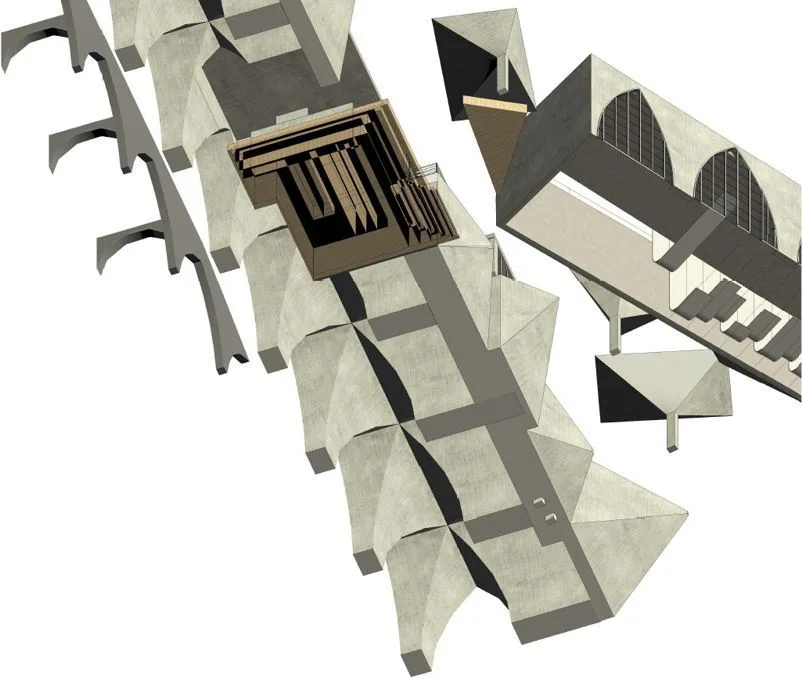
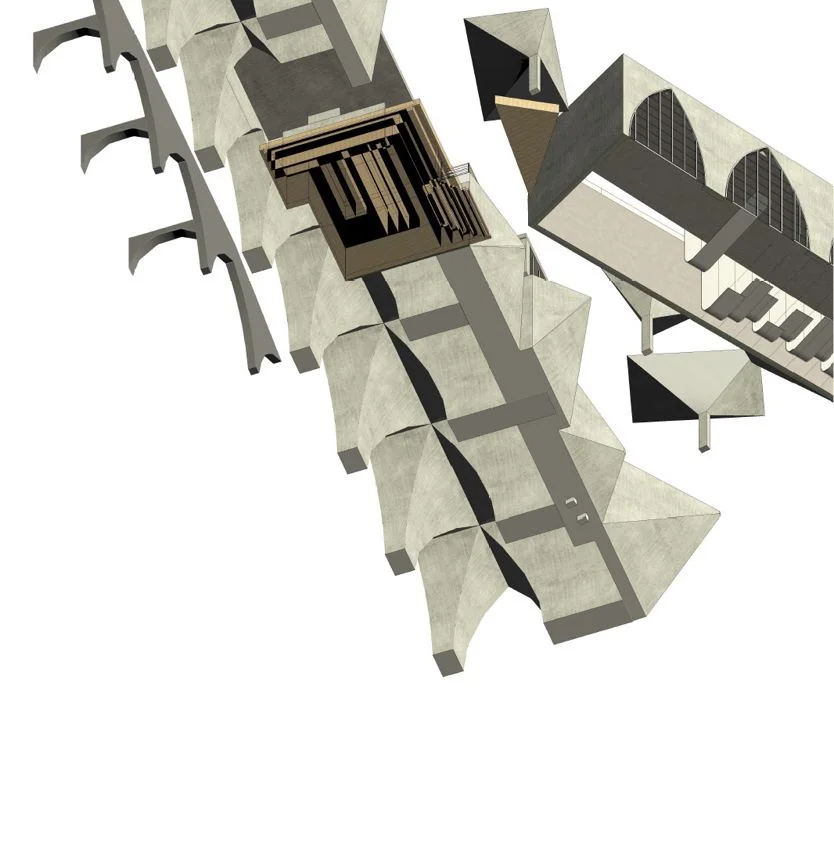
fix(imagenes): portadas BIM y Aranzazu a mayor resolucion (sin trim, a sangre)
Tras revision visual: BIM Seul (render de plaza) y Aranzazu (cubiertas plegadas)
son renders a sangre, asi que se generan sin recortar el margen -> 1191/834 px en
vez de 940/802, mas nitidos en desktop. Touro y Vista Alegre siguen recortados
(son dibujos que no llenan la pagina; recortar da mejor encuadre en el hero).

Documentada en material-pendiente.md la baja resolucion de origen del portfolio
(1191x842); la portada de Vista Alegre (~509 px) es la mas blanda -> prioridad si
Marta envia la lamina original en alta.

diff --git a/docs/material-pendiente.md b/docs/material-pendiente.md
@@ -32,10 +32,13 @@ recorte del PDF. Hay que pedirle los **renders originales** (los que hizo en
 Lumion / Enscape) para poder sustituirlos. Hasta entonces se quedan con el aviso
 de imagen provisional en la web.
 
-Opcional (mejora de calidad, no bloqueante): si Marta conserva las láminas
-originales en alta de Aranzazu, Touro, Vista Alegre, BIM y los dibujos de
-publicaciones, sustituirían con más nitidez a las páginas del portfolio que
-usamos ahora.
+Opcional (mejora de calidad, no bloqueante): las páginas del portfolio que
+usamos como fuente son de **baja resolución (1191×842 px, A4 a ~150 dpi)**. Al
+recortar el margen blanco, algunos dibujos quedan pequeños. El caso más visible
+es la **portada de Vista Alegre** (la axonometría ocupa poca página → ~509 px →
+se ve algo blanda en pantallas grandes). Si Marta conserva las **láminas
+originales en alta** de Aranzazu, Touro, Vista Alegre, BIM y los dibujos de
+publicaciones, sustituirían con más nitidez. Prioridad: Vista Alegre.
 
 ## Pendiente de decidir
 - **Panel 14 como portada del hero** (en vez de la muñeca): explorar con delicadeza
